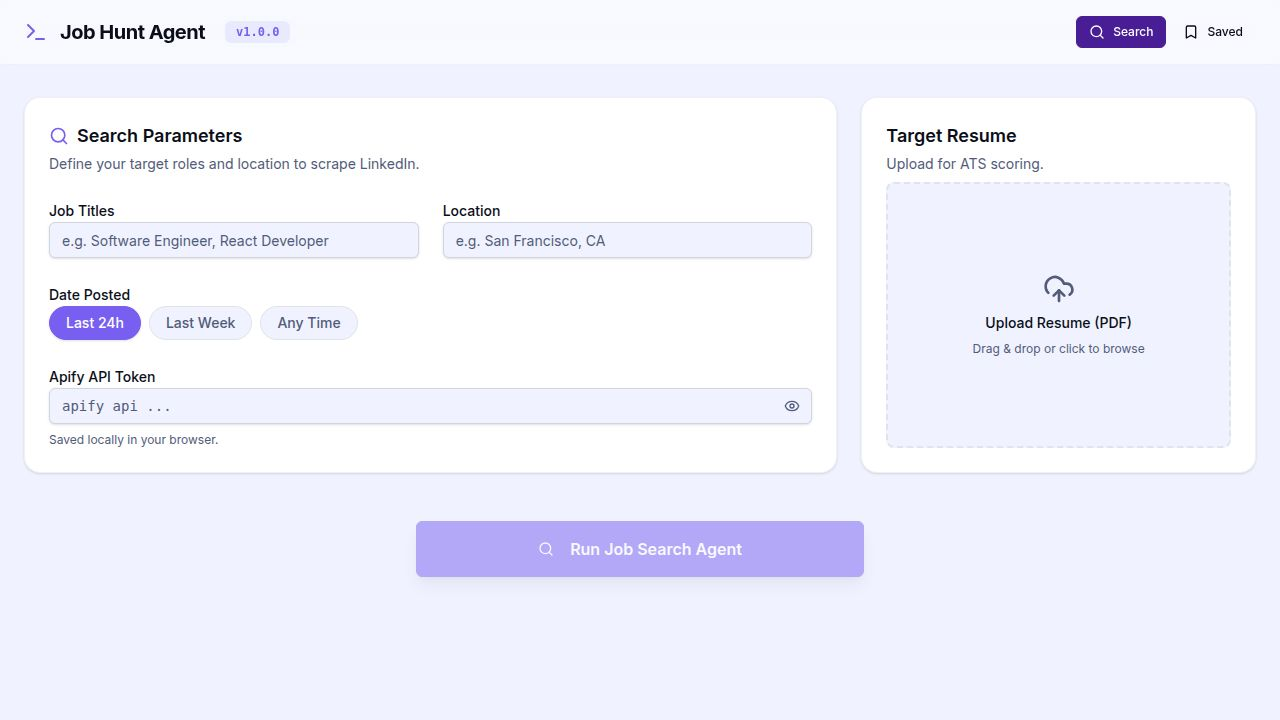
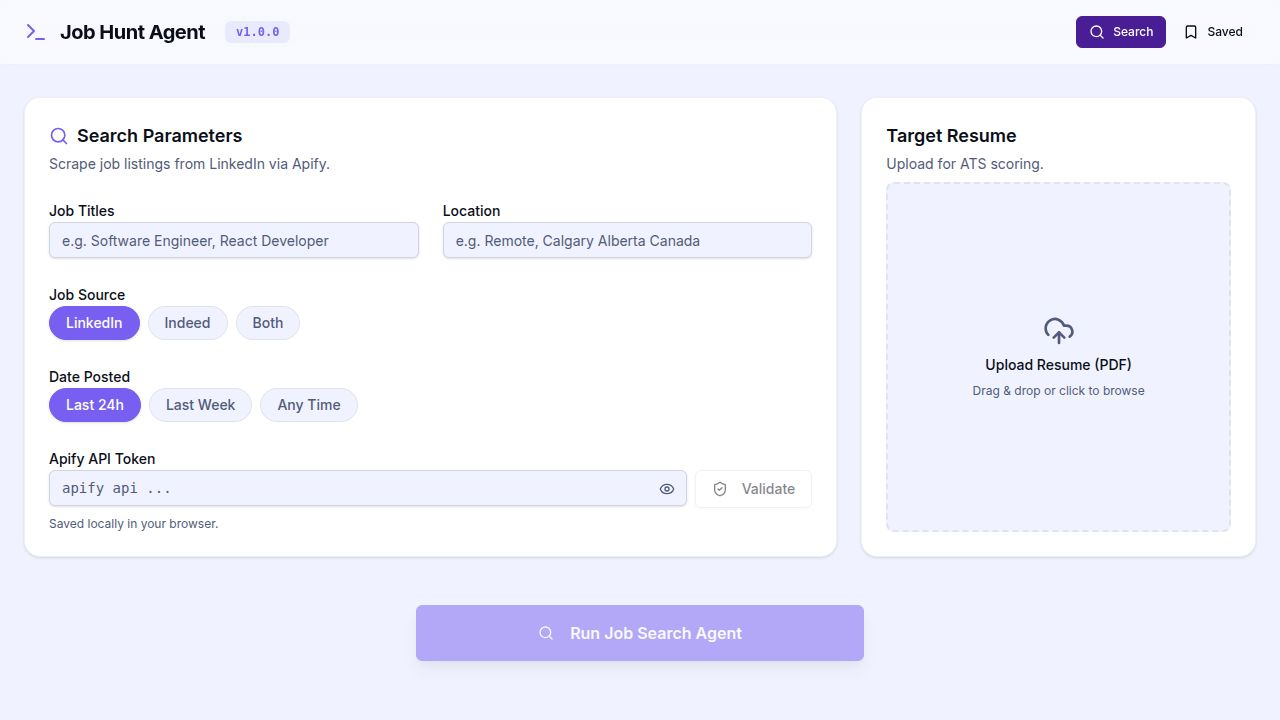
Add Indeed as a job search source and display source badges
Integrates Indeed job scraping alongside LinkedIn, adds source and country selection to the UI, modifies API schemas and routes to handle multiple sources, and displays source badges (LI/IN) in the job results table.

Replit-Commit-Author: Agent
Replit-Commit-Session-Id: 116abdeb-1e79-48bc-a1bb-24428a6cc758
Replit-Commit-Checkpoint-Type: full_checkpoint
Replit-Commit-Event-Id: ab12f620-a1fa-4a4b-b8ea-7d6ddf5317d8
Replit-Commit-Screenshot-Url: https://storage.googleapis.com/screenshot-production-us-central1/5bf968c1-0a4d-4dbf-b3dc-b3b5843b3f0e/116abdeb-1e79-48bc-a1bb-24428a6cc758/pQSALNC
Replit-Helium-Checkpoint-Created: true

diff --git a/artifacts/api-server/src/routes/jobs/index.ts b/artifacts/api-server/src/routes/jobs/index.ts
@@ -29,12 +29,139 @@ function extractExperienceLevel(description: string, title: string): string | nu
   return null;
 }
 
-function deduplicateJobs(jobs: Array<{ url: string; id: string; [key: string]: unknown }>) {
+function normalizeForDedup(s: string): string {
+  return s.toLowerCase().replace(/[^a-z0-9]/g, "");
+}
+
+function deduplicateByTitleCompany<T extends { title: string; company: string }>(jobs: T[]): T[] {
   const seen = new Set<string>();
   return jobs.filter((job) => {
-    if (seen.has(job.url)) return false;
-    seen.add(job.url);
+    const key = `${normalizeForDedup(job.title)}||${normalizeForDedup(job.company)}`;
+    if (seen.has(key)) return false;
+    seen.add(key);
     return true;
+  });
+}
+
+type NormalizedJob = {
+  id: string;
+  title: string;
+  company: string;
+  location: string;
+  url: string;
+  postedAt: string;
+  description: string;
+  experienceLevel: string | null;
+  source: "linkedin" | "indeed";
+};
+
+async function scrapeLinkedIn(
+  roleList: string[],
+  locationList: string[],
+  apifyToken: string,
+  datePosted: string,
+  log: typeof logger
+): Promise<NormalizedJob[]> {
+  const tprParam =
+    datePosted === "24h" ? "&f_TPR=r86400" :
+    datePosted === "week" ? "&f_TPR=r604800" :
+    "";
+  const liEncode = (s: string) => encodeURIComponent(s).replace(/%20/g, "+");
+  const urls = roleList.flatMap((role) =>
+    locationList.flatMap((loc) => [
+      `https://www.linkedin.com/jobs/search/?keywords=${liEncode(role)}&location=${liEncode(loc)}${tprParam}&start=0`,
+      `https://www.linkedin.com/jobs/search/?keywords=${liEncode(role)}&location=${liEncode(loc)}${tprParam}&start=25`,
+    ])
+  );
+
+  log.info({ urlCount: urls.length }, "Calling LinkedIn Apify actor");
+
+  const response = await fetch(
+    "https://api.apify.com/v2/acts/curious_coder~linkedin-jobs-scraper/run-sync-get-dataset-items",
+    {
+      method: "POST",
+      headers: { "Content-Type": "application/json", "Authorization": `Bearer ${apifyToken}` },
+      body: JSON.stringify({ urls, count: 50 }),
+    }
+  );
+
+  if (!response.ok) {
+    const text = await response.text();
+    log.error({ status: response.status, body: text }, "LinkedIn Apify request failed");
+    return [];
+  }
+
+  const items = await response.json() as Array<Record<string, unknown>>;
+  if (!Array.isArray(items)) return [];
+
+  return items.map((item, idx): NormalizedJob => ({
+    id: String(item.id ?? item.jobId ?? `li-${idx}`),
+    title: String(item.title ?? item.jobTitle ?? ""),
+    company: String(item.companyName ?? ""),
+    location: String(item.location ?? ""),
+    url: String(item.link ?? ""),
+    postedAt: String(item.postedAt ?? new Date().toISOString()),
+    description: String(item.description ?? item.jobDescription ?? ""),
+    experienceLevel: extractExperienceLevel(
+      String(item.description ?? item.jobDescription ?? ""),
+      String(item.title ?? item.jobTitle ?? "")
+    ),
+    source: "linkedin",
+  }));
+}
+
+async function scrapeIndeed(
+  roleList: string[],
+  locationList: string[],
+  apifyToken: string,
+  country: string,
+  log: typeof logger
+): Promise<NormalizedJob[]> {
+  log.info({ roleList, locationList, country }, "Calling Indeed Apify actor");
+
+  const response = await fetch(
+    "https://api.apify.com/v2/acts/misceres~indeed-scraper/run-sync-get-dataset-items",
+    {
+      method: "POST",
+      headers: { "Content-Type": "application/json", "Authorization": `Bearer ${apifyToken}` },
+      body: JSON.stringify({
+        country,
+        searchTerms: roleList,
+        location: locationList,
+        maxItems: 50,
+      }),
+    }
+  );
+
+  if (!response.ok) {
+    const text = await response.text();
+    log.error({ status: response.status, body: text }, "Indeed Apify request failed");
+    return [];
+  }
+
+  const items = await response.json() as Array<Record<string, unknown>>;
+  if (!Array.isArray(items)) return [];
+
+  return items.map((item, idx): NormalizedJob => {
+    const rawDate = item.postingDateParsed ?? item.datePosted ?? item.postedAt;
+    let postedAt = new Date().toISOString();
+    if (rawDate) {
+      const d = new Date(String(rawDate));
+      if (!isNaN(d.getTime())) postedAt = d.toISOString();
+    }
+    const desc = String(item.description ?? item.descriptionHtml ?? item.jobDescription ?? "");
+    const title = String(item.positionName ?? item.title ?? item.jobTitle ?? "");
+    return {
+      id: String(item.id ?? item.jobId ?? `indeed-${idx}`),
+      title,
+      company: String(item.company ?? item.companyName ?? ""),
+      location: String(item.location ?? ""),
+      url: String(item.url ?? item.jobUrl ?? item.externalApplyLink ?? ""),
+      postedAt,
+      description: desc,
+      experienceLevel: extractExperienceLevel(desc, title),
+      source: "indeed",
+    };
   });
 }
 
@@ -45,79 +172,40 @@ router.post("/search-jobs", async (req, res): Promise<void> => {
     return;
   }
 
-  const { roles, location, apifyToken, datePosted = "24h" } = parsed.data;
+  const { roles, location, apifyToken, datePosted = "24h", source = "linkedin", country = "us" } = parsed.data;
   const roleList = roles.split(",").map((r) => r.trim()).filter(Boolean);
   const locationList = location.split(",").map((l) => l.trim()).filter(Boolean);
 
-  const tprParam =
-    datePosted === "24h" ? "&f_TPR=r86400" :
-    datePosted === "week" ? "&f_TPR=r604800" :
-    "";
-
-  // LinkedIn search uses + for spaces, not %20
-  const liEncode = (s: string) => encodeURIComponent(s).replace(/%20/g, "+");
-
-  // Build two URLs (start=0, start=25) for every role × location combination
-  const urls = roleList.flatMap((role) =>
-    locationList.flatMap((loc) => [
-      `https://www.linkedin.com/jobs/search/?keywords=${liEncode(role)}&location=${liEncode(loc)}${tprParam}&start=0`,
-      `https://www.linkedin.com/jobs/search/?keywords=${liEncode(role)}&location=${liEncode(loc)}${tprParam}&start=25`,
-    ])
-  );
-
-  req.log.info({ roles: roleList, locations: locationList, urlCount: urls.length }, "Calling Apify with combined URL list");
+  req.log.info({ roles: roleList, locations: locationList, source, country }, "Starting job search");
 
   try {
-    const response = await fetch(
-      "https://api.apify.com/v2/acts/curious_coder~linkedin-jobs-scraper/run-sync-get-dataset-items",
-      {
-        method: "POST",
-        headers: {
-          "Content-Type": "application/json",
-          "Authorization": `Bearer ${apifyToken}`,
-        },
-        body: JSON.stringify({ urls, count: 50 }),
-      }
-    );
+    let allJobs: NormalizedJob[] = [];
 
-    if (!response.ok) {
-      const text = await response.text();
-      req.log.error({ status: response.status, body: text }, "Apify request failed");
-      res.status(502).json({ error: `Apify error ${response.status}: ${text.slice(0, 200)}` });
-      return;
+    if (source === "linkedin" || source === "both") {
+      const liJobs = await scrapeLinkedIn(roleList, locationList, apifyToken, datePosted, req.log);
+      allJobs = [...allJobs, ...liJobs];
     }
 
-    const items = await response.json() as Array<Record<string, unknown>>;
+    if (source === "indeed" || source === "both") {
+      const indeedJobs = await scrapeIndeed(roleList, locationList, apifyToken, country, req.log);
+      allJobs = [...allJobs, ...indeedJobs];
+    }
 
-    if (!Array.isArray(items) || items.length === 0) {
-      req.log.info("Apify returned no jobs");
+    if (allJobs.length === 0) {
+      req.log.info("No jobs returned from any source");
       res.json([]);
       return;
     }
 
-    const jobs = items.map((item, idx) => ({
-      id: String(item.id ?? item.jobId ?? `job-${idx}`),
-      title: String(item.title ?? item.jobTitle ?? ""),
-      company: String(item.companyName ?? ""),
-      location: String(item.location ?? ""),
-      url: String(item.link ?? ""),
-      postedAt: String(item.postedAt ?? ""),
-      description: String(item.description ?? item.jobDescription ?? ""),
-      experienceLevel: extractExperienceLevel(
-        String(item.description ?? item.jobDescription ?? ""),
-        String(item.title ?? item.jobTitle ?? "")
-      ),
-    }));
+    // Filter out jobs with no title or URL, then dedup by title+company
+    const validJobs = allJobs.filter((j) => j.title && (j.url || source === "both"));
+    const uniqueJobs = deduplicateByTitleCompany(validJobs);
 
-    const uniqueJobs = deduplicateJobs(
-      jobs as Array<{ url: string; id: string; [key: string]: unknown }>
-    );
-
-    req.log.info({ total: items.length, afterFilter: uniqueJobs.length }, "Jobs fetched and filtered");
+    req.log.info({ total: allJobs.length, afterDedup: uniqueJobs.length }, "Jobs merged and deduplicated");
     res.json(uniqueJobs);
   } catch (err) {
     req.log.error({ err }, "Error in search-jobs");
-    res.status(500).json({ error: "Failed to fetch jobs from Apify" });
+    res.status(500).json({ error: "Failed to fetch jobs" });
   }
 });
 

diff --git a/artifacts/job-hunt-agent/src/pages/home.tsx b/artifacts/job-hunt-agent/src/pages/home.tsx
@@ -78,6 +78,8 @@ export default function Home() {
     searchAttempted, searchError,
     searchJobs, scoreAllJobs,
     getSalaryForJob, salaryAllJobs, isSalaryingAll,
+    source, setSource,
+    country, setCountry,
   } = useJobSearch();
 
   const { history, addToHistory, removeFromHistory } = useSearchHistory();
@@ -192,7 +194,11 @@ export default function Home() {
                     <Search className="h-5 w-5 text-primary" />
                     Search Parameters
                   </h2>
-                  <p className="text-sm text-muted-foreground">Define your target roles and location to scrape LinkedIn.</p>
+                  <p className="text-sm text-muted-foreground">
+                    {source === "linkedin" && "Scrape job listings from LinkedIn via Apify."}
+                    {source === "indeed" && "Scrape job listings from Indeed via Apify."}
+                    {source === "both" && "Scrape LinkedIn and Indeed, then merge and deduplicate results."}
+                  </p>
                 </div>
 
                 <div className="grid grid-cols-1 md:grid-cols-2 gap-6">
@@ -217,6 +223,31 @@ export default function Home() {
                     />
                   </div>
                   <div className="space-y-2 md:col-span-2">
+                    <Label>Job Source</Label>
+                    <div className="flex gap-2">
+                      {([
+                        ["linkedin", "LinkedIn"],
+                        ["indeed",   "Indeed"],
+                        ["both",     "Both"],
+                      ] as ["linkedin"|"indeed"|"both", string][]).map(([val, label]) => (
+                        <button
+                          key={val}
+                          type="button"
+                          onClick={() => setSource(val)}
+                          className={cn(
+                            "px-4 py-1.5 rounded-full text-sm font-medium border transition-all",
+                            source === val
+                              ? "bg-primary text-primary-foreground border-primary shadow-sm"
+                              : "bg-background text-muted-foreground border-border hover:border-primary/50 hover:text-foreground"
+                          )}
+                        >
+                          {label}
+                        </button>
+                      ))}
+                    </div>
+                  </div>
+
+                  <div className="space-y-2">
                     <Label>Date Posted</Label>
                     <div className="flex gap-2">
                       {([ ["24h", "Last 24h"], ["week", "Last Week"], ["any", "Any Time"] ] as [DatePosted, string][]).map(([val, label]) => (
@@ -236,6 +267,26 @@ export default function Home() {
                       ))}
                     </div>
                   </div>
+
+                  {(source === "indeed" || source === "both") && (
+                    <div className="space-y-2">
+                      <Label htmlFor="country">Indeed Country</Label>
+                      <Select value={country} onValueChange={setCountry}>
+                        <SelectTrigger id="country" className="bg-background">
+                          <SelectValue />
+                        </SelectTrigger>
+                        <SelectContent>
+                          <SelectItem value="us">🇺🇸 United States</SelectItem>
+                          <SelectItem value="ca">🇨🇦 Canada</SelectItem>
+                          <SelectItem value="gb">🇬🇧 United Kingdom</SelectItem>
+                          <SelectItem value="au">🇦🇺 Australia</SelectItem>
+                          <SelectItem value="in">🇮🇳 India</SelectItem>
+                          <SelectItem value="de">🇩🇪 Germany</SelectItem>
+                          <SelectItem value="fr">🇫🇷 France</SelectItem>
+                        </SelectContent>
+                      </Select>
+                    </div>
+                  )}
 
                   <div className="space-y-2 md:col-span-2">
                     <Label htmlFor="apifyToken">Apify API Token</Label>

diff --git a/artifacts/job-hunt-agent/src/components/ResultsTable.tsx b/artifacts/job-hunt-agent/src/components/ResultsTable.tsx
@@ -244,7 +244,21 @@ export function ResultsTable({
                       <TooltipContent>{isBookmarked(job.id) ? "Remove bookmark" : "Save job"}</TooltipContent>
                     </Tooltip>
                   </TableCell>
-                  <TableCell className="font-medium max-w-[260px] truncate" title={job.title}>{job.title}</TableCell>
+                  <TableCell className="font-medium max-w-[260px]" title={job.title}>
+                    <div className="flex items-center gap-1.5 truncate">
+                      {job.source && (
+                        <span className={cn(
+                          "shrink-0 text-[10px] font-bold px-1.5 py-0.5 rounded border",
+                          job.source === "linkedin"
+                            ? "bg-blue-500/15 text-blue-400 border-blue-500/30"
+                            : "bg-red-500/15 text-red-400 border-red-500/30"
+                        )}>
+                          {job.source === "linkedin" ? "LI" : "IN"}
+                        </span>
+                      )}
+                      <span className="truncate">{job.title}</span>
+                    </div>
+                  </TableCell>
                   <TableCell>{job.company}</TableCell>
                   <TableCell>{job.location}</TableCell>
                   <TableCell>

diff --git a/artifacts/job-hunt-agent/src/hooks/use-job-search.ts b/artifacts/job-hunt-agent/src/hooks/use-job-search.ts
@@ -19,6 +19,8 @@ export function useJobSearch() {
   const [location, setLocation] = useState("");
   const [resumeText, setResumeText] = useState("");
   const [datePosted, setDatePosted] = useState<DatePosted>("24h");
+  const [source, setSource] = useState<"linkedin" | "indeed" | "both">("linkedin");
+  const [country, setCountry] = useState("us");
   
   const [jobs, setJobs] = useState<JobState[]>([]);
   const [isSearching, setIsSearching] = useState(false);
@@ -48,12 +50,13 @@ export function useJobSearch() {
     setIsSearching(true);
     setSearchAttempted(false);
     setSearchError(null);
-    setSearchStage("Scraping LinkedIn...");
+    const sourceLabel = source === "both" ? "LinkedIn & Indeed" : source === "indeed" ? "Indeed" : "LinkedIn";
+    setSearchStage(`Scraping ${sourceLabel}...`);
     setJobs([]);
 
     try {
       const results = await searchMutation.mutateAsync({
-        data: { roles, location, apifyToken, datePosted }
+        data: { roles, location, apifyToken, datePosted, source, country }
       });
       
       setSearchStage("Processing results...");
@@ -174,6 +177,8 @@ export function useJobSearch() {
     location, setLocation,
     resumeText, setResumeText,
     datePosted, setDatePosted,
+    source, setSource,
+    country, setCountry,
     jobs, setJobs,
     isSearching, searchStage,
     searchAttempted, searchError,